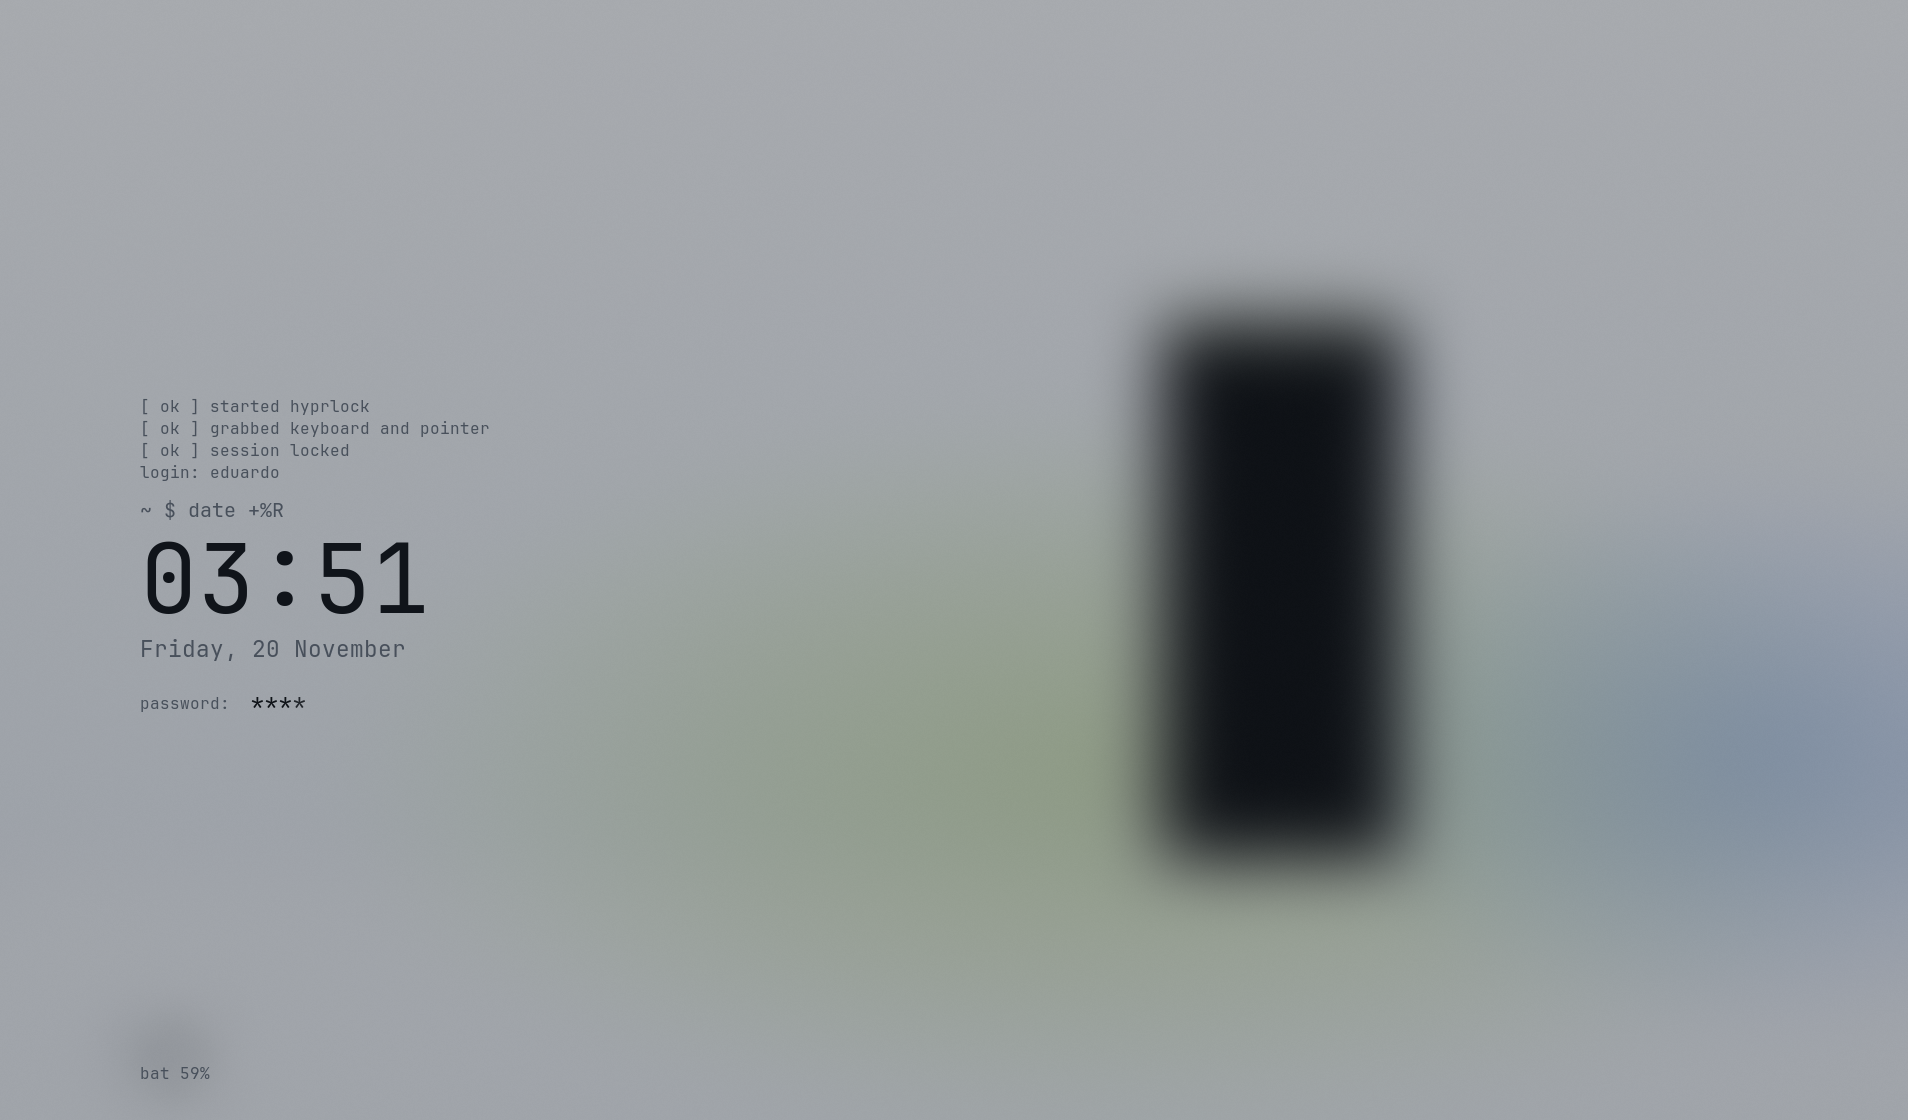
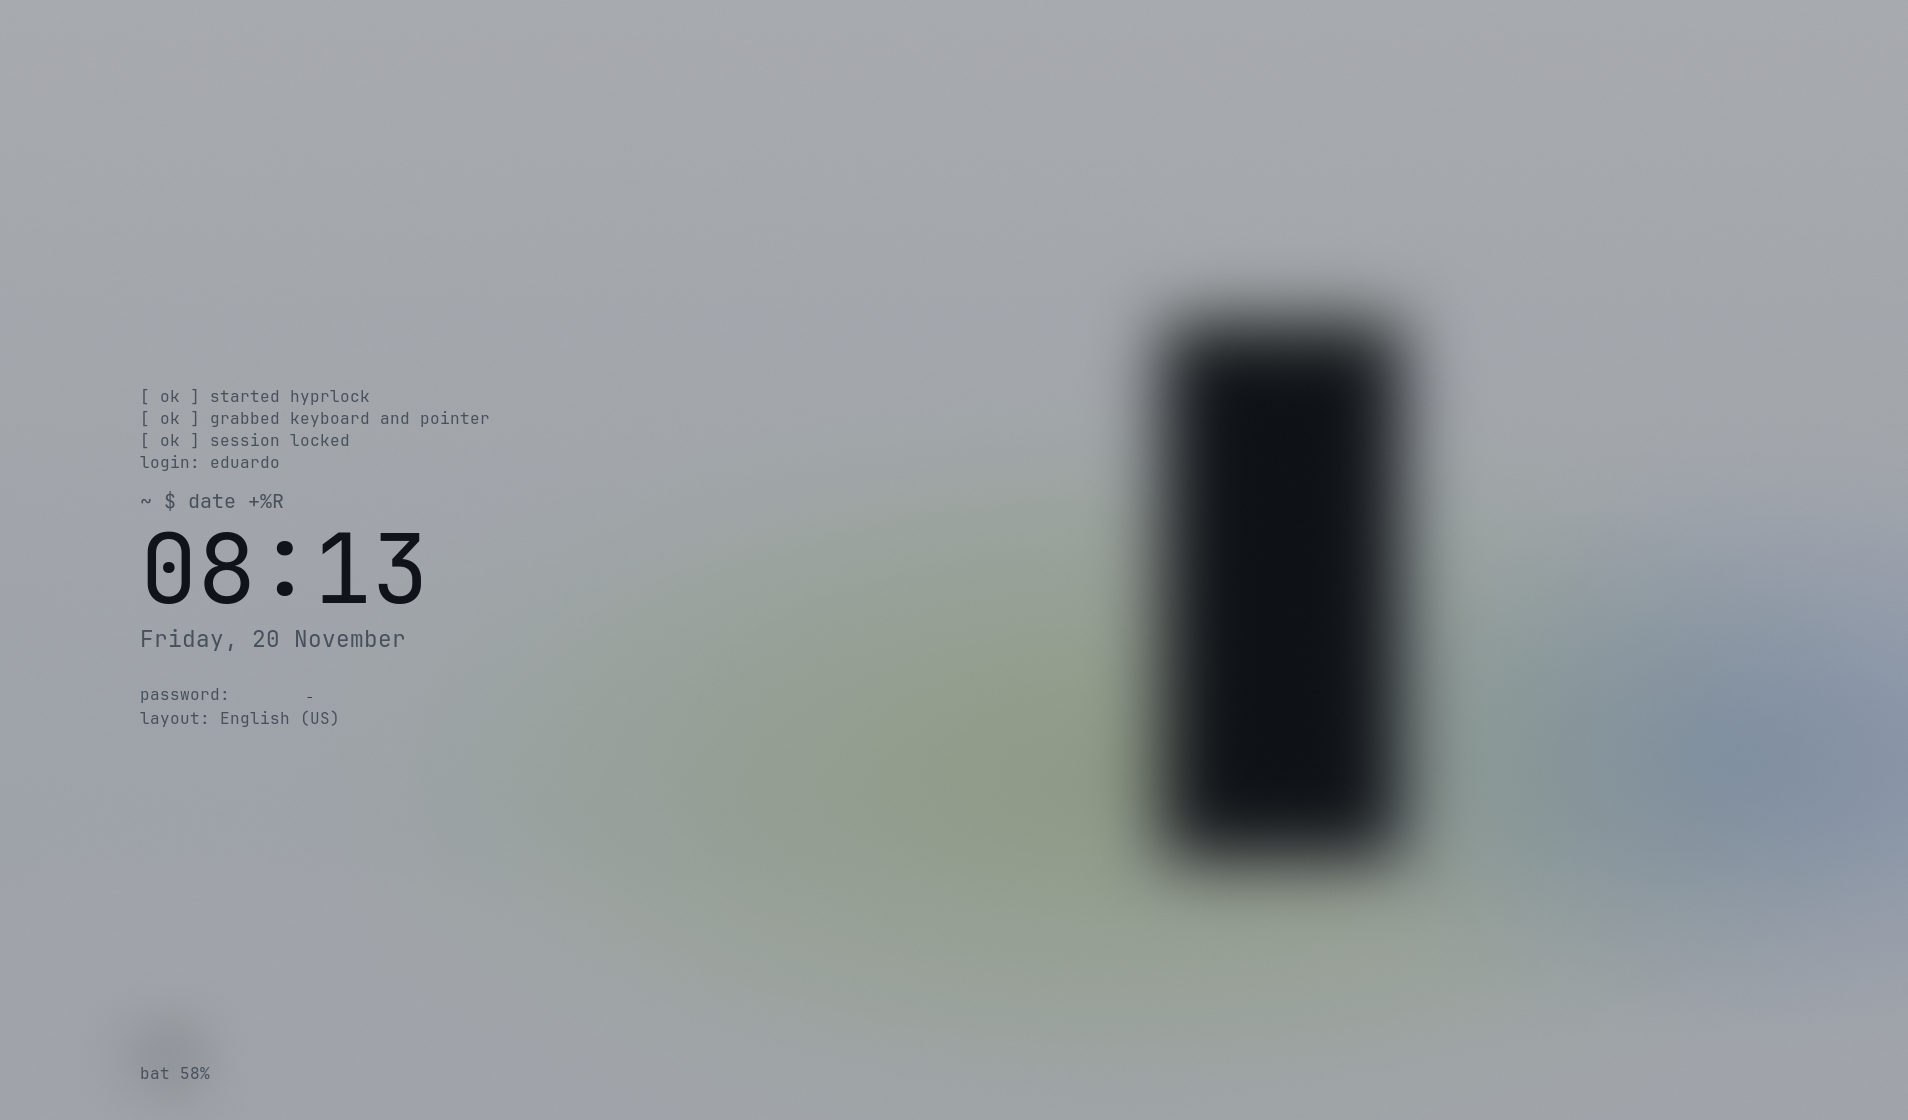
fix(lock): Archivo Black clock, Monolith layout line, intro after first frame
- Poster: a family whose name ends in its weight gets a trailing comma, so
  Pango draws Archivo Black instead of reading it as Archivo at weight Black.
- Monolith: the keyboard layout as a 'layout:' log line under password: (a
  cmd label, re-read each second; the placeholder is centred far away).
- The boot log starts typing 600 ms after hyprlock's first run, so it is not
  half typed when the lock first shows.
- After-shots retaken for Poster and Monolith.

Changed region(s): [[0.0618, 0.3438, 0.2474, 0.5938], [0.0618, 0.625, 0.1855, 0.6562]]

diff --git a/config/quickshell/.config/quickshell/LockScreen.qml b/config/quickshell/.config/quickshell/LockScreen.qml
@@ -46,6 +46,8 @@ Singleton {
         if (l.date) out.push({ role: "date", size: 17, weight: Font.Medium, mono: clock === "terminal" || clock === "readout", colour: "muted", caps: clock === "readout" })
         out.push({ role: "gap", hgt: 26 })
         out.push(scene === "boot" ? { role: "input", w: 120, hgt: 30, prefix: 110 } : { role: "input", w: 300, hgt: 50 })
+        // boot: the layout as one more log line (hyprlock centres a placeholder, far from "password:")
+        if (scene === "boot" && l.widgets.includes("layout")) out.push({ role: "kbd", size: 12, mono: true, colour: "muted" })
         return out
     }
     function heightOf(e) { return e.hgt ?? Math.round(e.size * 1.33 * (e.tight ? 0.92 : 1.18) * (e.lines ?? 1)) }
@@ -107,8 +109,9 @@ Singleton {
         return (h < 5 ? "Good evening" : h < 12 ? "Good morning" : h < 18 ? "Good afternoon" : "Good evening") + (l.greeting ? ", " + niceName : "")
     }
     readonly property var bootLines: ["[ ok ] started hyprlock", "[ ok ] grabbed keyboard and pointer", "[ ok ] session locked", "login: " + userName]
-    // hyprlock: the log types in, one letter per 20 ms from the first draw. update:60000:1 lets SIGUSR2
-    // re-run it; the first run (a new hyprlock, $PPID) starts one loop that signals that hyprlock for ~3.5 s.
+    // hyprlock: the log types in, one letter per 20 ms, from 600 ms after the first run (hyprlock runs it before
+    // its first frame, then fades in). update:60000:1 lets SIGUSR2 re-run it; the first run (a new hyprlock,
+    // $PPID) starts one loop that signals that hyprlock for ~4 s.
     // (hyprlock drops a signal that lands mid-refresh, so one shot per run would stall; and it reads the
     // command's output pipes to the end, so the loop closes every inherited descriptor.)
     // Reduced or no motion: the whole log at once. No # (a config comment) and no $name that is a variable here.
@@ -116,9 +119,9 @@ Singleton {
         const log = "t=$(printf '%s\\n' '" + bootLines.slice(0, 3).join("' '") + "'; printf 'login: %s' \"$(id -un)\"); "
         if (!Theme.moves) return "cmd[update:0] " + log + "printf '%s' \"$t\""
         return "cmd[update:60000:1] k=${XDG_RUNTIME_DIR:-/tmp}/hyprism-lockboot; n=$(date +%s%3N); read -r p s <\"$k\" 2>/dev/null; "
-            + "if [ \"$p\" != \"$PPID\" ]; then s=$n; echo \"$PPID $s\" >\"$k\"; "
-            + "setsid -f sh -c 'for f in /proc/self/fd/*; do n=$(basename $f); [ $n -gt 2 ] && eval \"exec $n>&-\"; done; i=0; while [ $i -lt 50 ]; do sleep 0.07; kill -USR2 $1 || break; i=$((i + 1)); done' - \"$PPID\" </dev/null >/dev/null 2>&1; fi; " + log
-            + "c=$(( (n - s) / 20 )); [ \"$c\" -lt \"$(printf %s \"$t\" | wc -c)\" ] && t=$(printf '%s' \"$t\" | head -c \"$c\"); printf '%s' \"$t\""
+            + "if [ \"$p\" != \"$PPID\" ]; then s=$((n + 600)); echo \"$PPID $s\" >\"$k\"; "
+            + "setsid -f sh -c 'for f in /proc/self/fd/*; do n=$(basename $f); [ $n -gt 2 ] && eval \"exec $n>&-\"; done; i=0; while [ $i -lt 60 ]; do sleep 0.07; kill -USR2 $1 || break; i=$((i + 1)); done' - \"$PPID\" </dev/null >/dev/null 2>&1; fi; " + log
+            + "c=$(( (n - s) / 20 )); [ \"$c\" -lt 0 ] && c=0; [ \"$c\" -lt \"$(printf %s \"$t\" | wc -c)\" ] && t=$(printf '%s' \"$t\" | head -c \"$c\"); printf '%s' \"$t\""
     }
     readonly property var dateFormat: ({ hl: "%A, %-d %B", qt: "dddd, d MMMM" })
     function previewText(role, now) {
@@ -133,6 +136,7 @@ Singleton {
         case "prompt": return "~ $ date +%R"
         case "boot": return bootLines.join("\n")
         case "pwlabel": return "password:"
+        case "kbd": return "layout: " + (Keyboard.layouts[Keyboard.active]?.name ?? Keyboard.short)
         case "media": return "\u266A  " + (Sys.track || "Nothing playing")
         case "widgets": return widgetText([Sys.hasBattery ? "bat " + Sys.batteryPct + "%" : "", scene === "soft" ? "" : Sys.track])
         }
@@ -156,6 +160,8 @@ Singleton {
         case "prompt": return "~ $ date +%R"
         case "boot": return bootCmd
         case "pwlabel": return "password:"
+        // hyprlock fills $LAYOUT in before running it; a plain label can keep "error" from before the keymap came
+        case "kbd": return "cmd[update:1000] printf '%s' 'layout: $LAYOUT'"
         case "media": return "cmd[update:2000] " + nowPlaying + "printf '\u266A  %s' \"${m:-Nothing playing}\""
         case "widgets": {
             const bits = []
@@ -170,10 +176,12 @@ Singleton {
     // ---- hyprlock --------------------------------------------------------------------------------------
     function hex(c) { return c.toString().slice(1, 7) }
     function rgba(c, a) { return "rgba(" + [c.r, c.g, c.b].map(v => Math.round(v * 255)).join(", ") + ", " + a + ")" }
-    function family(e) {   // hyprlock picks the face by its full name: "Outfit Light"
+    // hyprlock picks the face by its full name: "Outfit Light". A family whose own name ends in the weight
+    // ("Archivo Black") gets a trailing comma, or Pango reads it as Archivo at weight Black and draws it regular.
+    function family(e) {
         const f = e.mono ? Theme.monoFont : e.display ? Theme.displayFont : Theme.font
         const w = ({ 300: " Light", 500: " Medium", 600: " SemiBold", 700: " Bold", 800: " ExtraBold", 900: " Black" })[e.weight ?? 400] ?? ""
-        return f.endsWith(w.trim()) ? f : f + w
+        return w && f.endsWith(w) ? f + "," : f + w
     }
     function colour(e) { return e.colour === "accent" ? "rgb(" + hex(Theme.accent) + ")" : e.colour === "muted" ? rgba(inkMuted, Number(inkMuted.a.toFixed(2))) : "rgb(" + hex(ink) + ")" }
     // a shape's fill by name (blocks, the soft media pill, the blocks field's shadow), here and in LockPreview
@@ -200,7 +208,7 @@ Singleton {
             } else if (e.role === "input") {
                 // boot: bare, a star per letter after "password:"; soft: no outline, a soft shadow; blocks: a thick text frame
                 const boot = scene === "boot", soft = scene === "soft", blk = scene === "blocks"
-                const lay = l.widgets.includes("layout") ? "  ·  $LAYOUT" : ""
+                const lay = !boot && l.widgets.includes("layout") ? "  ·  $LAYOUT" : ""
                 s += "input-field {\n    monitor           =\n    size              = " + e.w + ", " + e.hgt + "\n"
                    + "    outline_thickness = " + (boot || soft ? 0 : blk ? 3 : Math.max(1, Theme.line)) + "\n"
                    + "    rounding          = " + (blk || boot ? 0 : soft || Theme.radius >= 12 ? -1 : Theme.radius) + "\n"

diff --git a/docs/THEMES.md b/docs/THEMES.md
@@ -76,7 +76,7 @@ corners, gaps, font and motion and is kept in `settings.json`; there is no build
 | `launcher`, `notify` | Launcher placement and look; where notifications appear and their shape |
 | `launcher.layout` | The launcher's structure: `grid` (a big search pill on a soft shadow, a Recent row and app icons on squircle plates, a selection wash that springs in), `sheet` (the query as a display-font header, big rows with a first-letter index and a category tag, the selection an inverse block on a hard shadow) or `prompt` (a `❯ query` line with a block caret, numbered text rows with a `>` on the selection, matches in accent, `[enter] open` hints). Empty: the plain list. A style picked in Settings > Search & Launcher brings its own structure instead |
 | `hypr` | Window gaps, border, rounding, border colours, shadow, blur, animation preset, `frame`: `accent`, `gradient` or `rainbow` (the focused window's frame) |
-| `lock` | Lock screen `clock` style, `align`, and `scene`, the composition around it: `soft` (a time-of-day greeting, a shadowed password pill, a now-playing pill), `blocks` (a paper panel with accent and `accent2` blocks, a square field with a hard shadow) or `boot` (a boot log that types in, then `login:` and a `password: ****` line; all at once in reduced motion). Settings > Lock Screen's preview draws the same layout |
+| `lock` | Lock screen `clock` style, `align`, and `scene`, the composition around it: `soft` (a time-of-day greeting, a shadowed password pill, a now-playing pill), `blocks` (a paper panel with accent and `accent2` blocks, a square field with a hard shadow) or `boot` (a boot log that types in, then `login:`, a `password: ****` line and the keyboard `layout:`; all at once in reduced motion). Settings > Lock Screen's preview draws the same layout |
 | `power` | `style` of the power menu: `tiles` (icon tiles), `blocks` (giant display-type blocks with their key, hard shadows) or `list` (numbered mono lines, `1) lock`). Every style takes the keys L S H O R P and 1–6 |
 | `term` | The terminal's colours: `background`, `foreground`, `cursor`, `cursorText`, `selection`, `selectionText`, `palette` (16 colours), and its look: `cursorStyle` (`block`, `bar`, `underline`, `block_hollow`), `blink`, `padding` `[x, y]`, `prompt`: the starship prompt and fastfetch card preset (`rounded` pills, `blocks` on a heavy rail, `brackets` as an ascii HUD) |
 | `wall` | The wallpaper's name: a picture `<wall>.png` in the folder, or a recipe with that name in `wallpaper.sh` |

diff --git a/CHANGELOG.md b/CHANGELOG.md
@@ -24,7 +24,8 @@ All notable changes to Hyprism. The format follows [Keep a Changelog](https://ke
 - A lock screen and power menu per theme (theme.json `lock.scene`, `power.style`). Pebble: a centred clock, a
   time-of-day greeting, a soft password pill and a now-playing pill. Poster: the stacked clock on a paper panel with
   colour blocks and a hard-shadowed field; the power menu is giant blocks with their key. Monolith: a boot log that
-  types in (`[ ok ] session locked`, then `login:` and `password: ****`), and a numbered power menu. The power menu
+  types in once the lock is drawn (`[ ok ] session locked`, then `login:`, `password: ****` and the keyboard
+  `layout:`), and a numbered power menu. The power menu
   now takes keys in every theme: L lock, S sleep, H hibernate, O log out, R restart, P shut down, or 1–6.
 - A signature feel per theme (theme.json `feel`), full motion only: Poster's buttons push into their hard
   shadow, Pebble's sink and spring back and its panels land with a small overshoot, Monolith's focus is a reticle that
@@ -344,6 +345,8 @@ All notable changes to Hyprism. The format follows [Keep a Changelog](https://ke
 ### Fixed
 
 - The lock screen's media widget showed "Sample Text": playerctl's `{{ }}` format is hyprlang syntax.
+- The lock clock drew Archivo Black (Poster) as regular Archivo: Pango read the family name as a weight.
+- Changing theme and mode quickly could leave the older wallpaper: a slow first render finished last and won.
 - Settings search matched no pages and the Language page's layout list failed (`flatMap` is missing in
   Quickshell's JavaScript).
 - Settings: cursor size is a choice of four sizes; sliders on Keyboard & Touchpad and Night Light lost their stray
